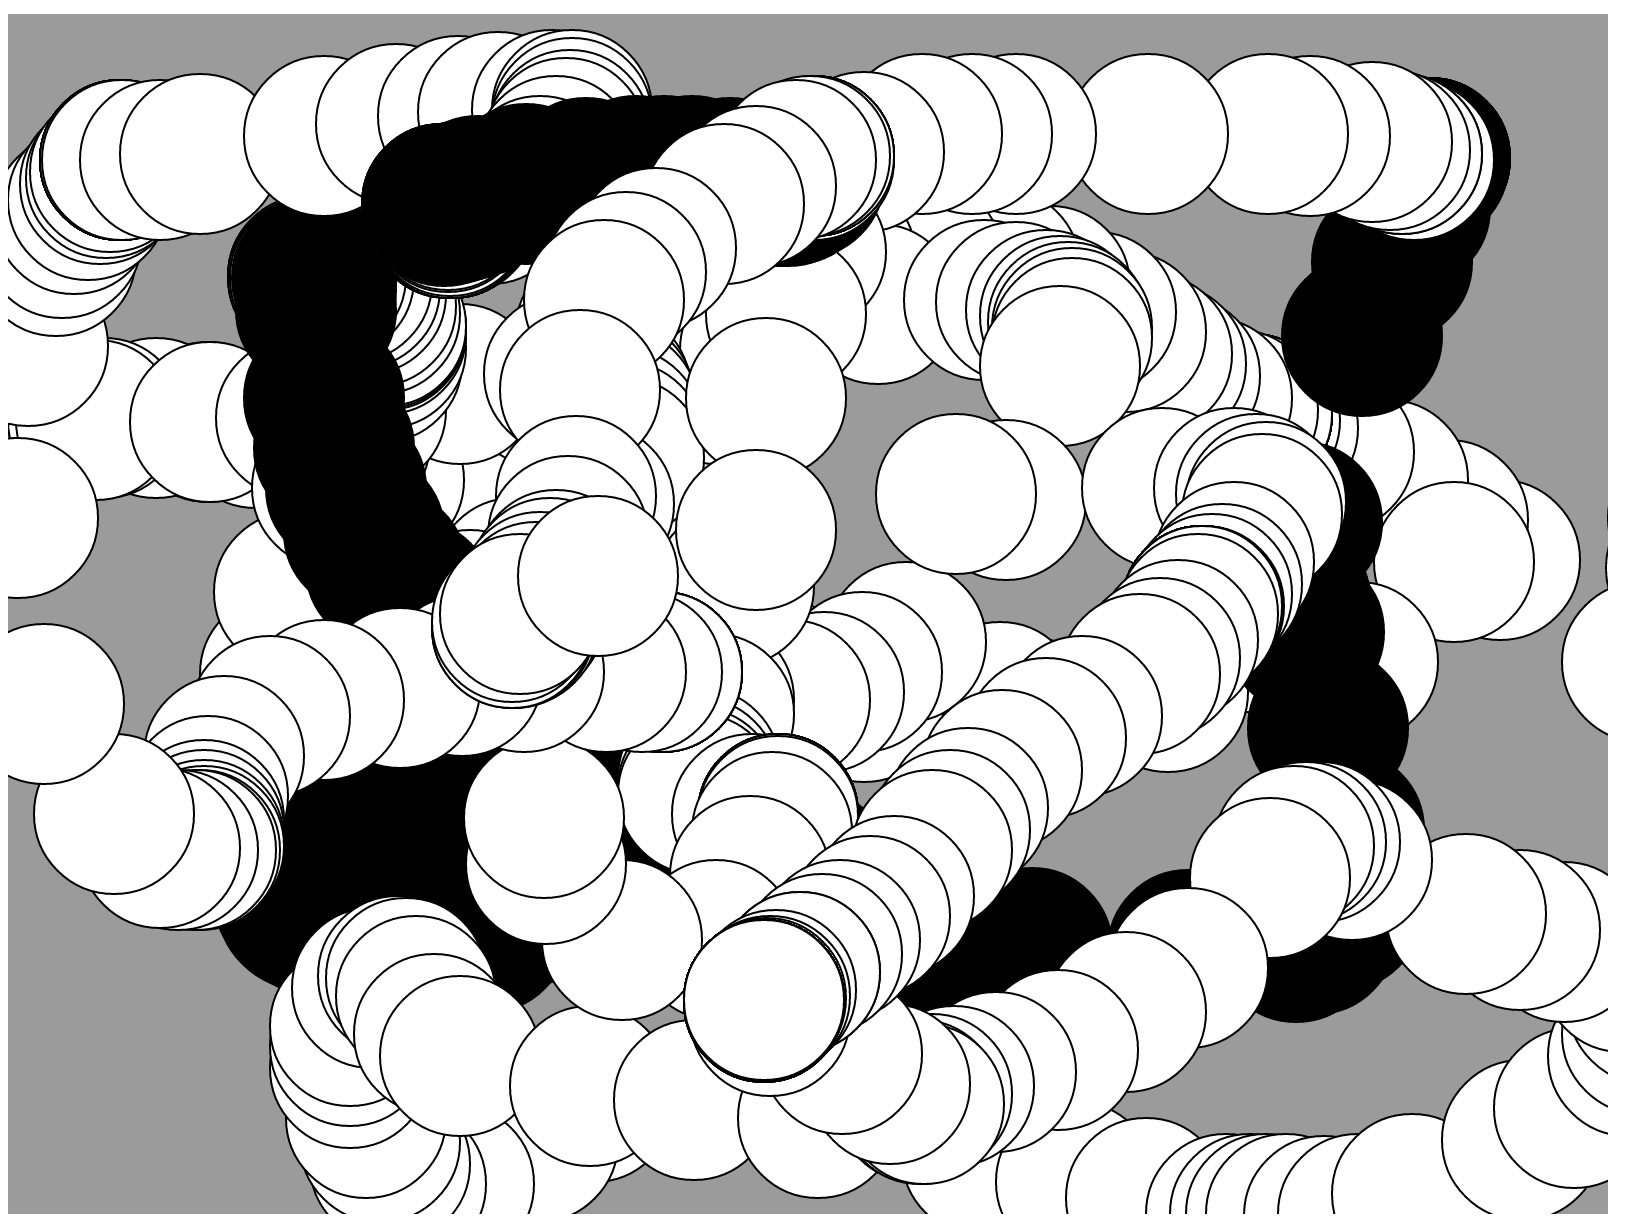
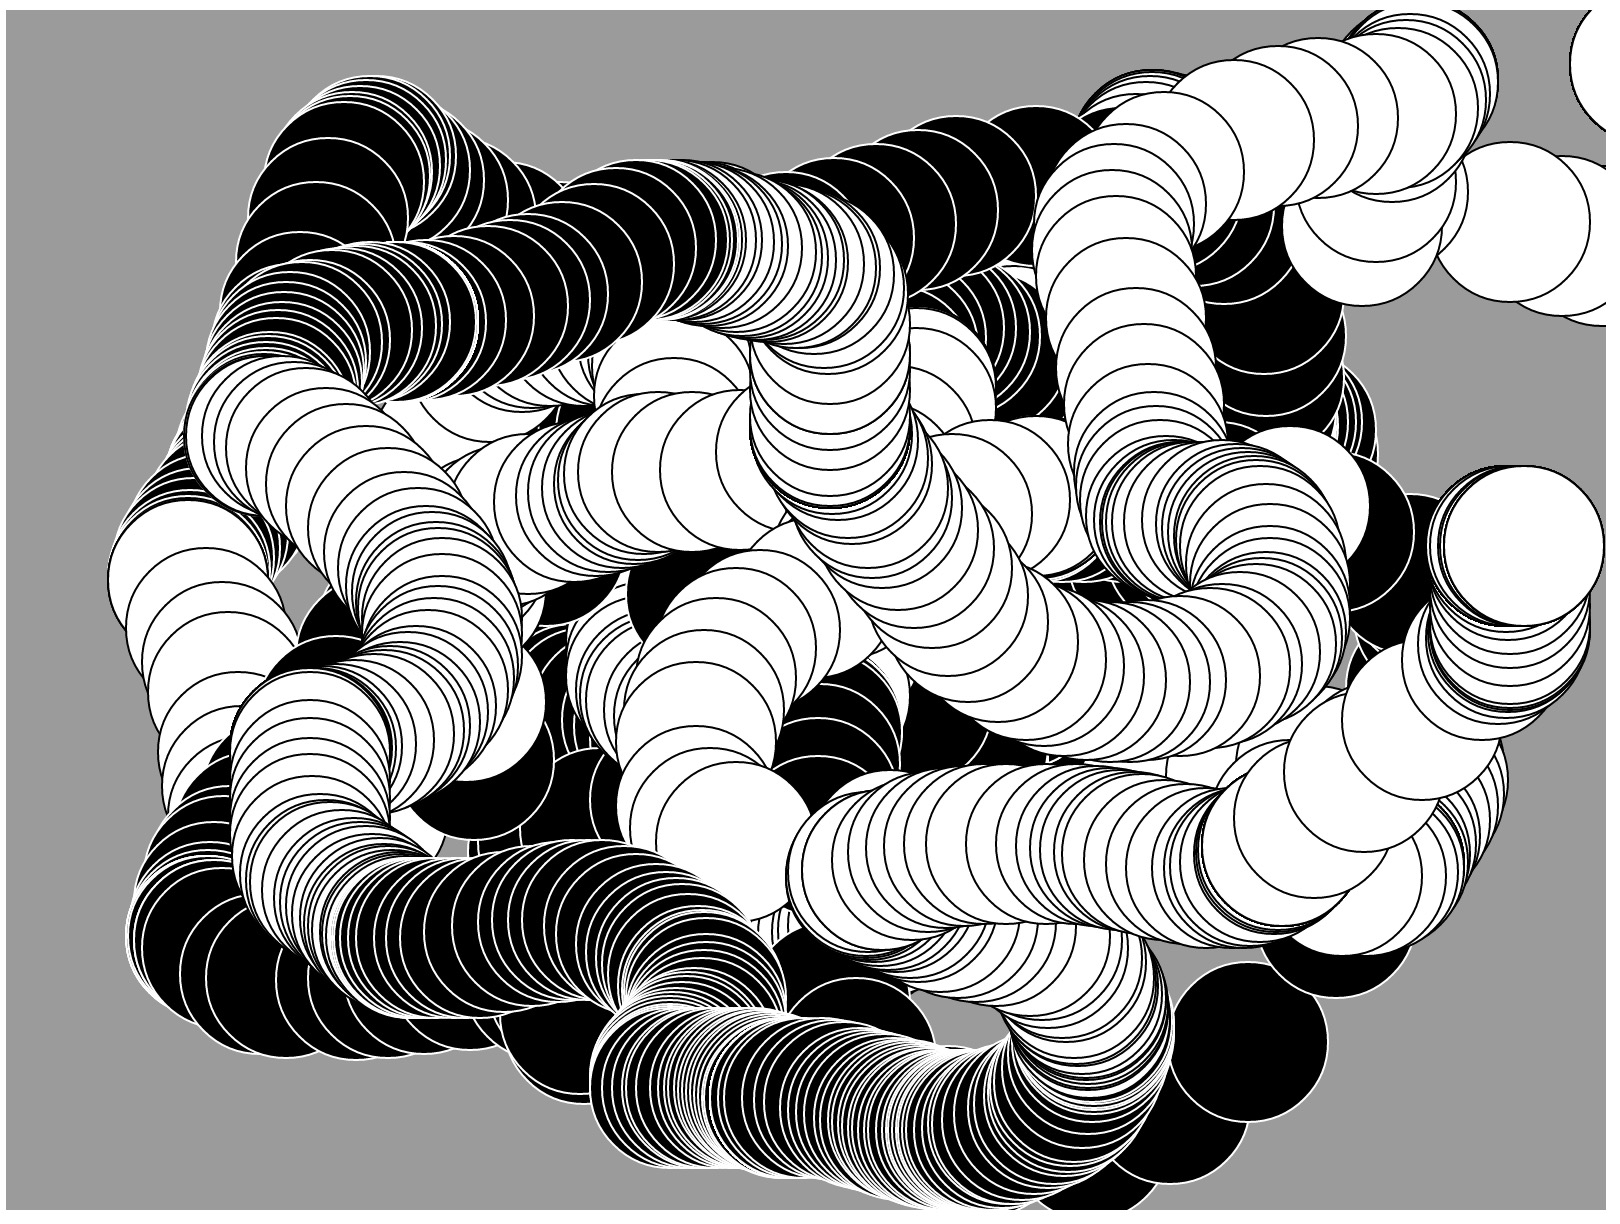
update

diff --git a/demos/d1/main.js b/demos/d1/main.js
@@ -8,6 +8,7 @@ setup = function() {
 
 draw = function() {
   fill(mouseIsPressed ? 0 : 255);
+  stroke(mouseIsPressed ? 255 : 0);
   if (mouseX !== 0 && mouseY !== 0) {
     return ellipse(mouseX, mouseY, 80, 80);
   }

diff --git a/docs/d1/d1.md b/docs/d1/d1.md
@@ -183,6 +183,7 @@ setup = ->
 
 draw = ->
     fill if mouseIsPressed then 0 else 255
+    stroke if mouseIsPressed then 255 else 0
     ellipse(mouseX, mouseY, 80, 80) if mouseX isnt 0 and mouseY isnt 0
 ```
 
